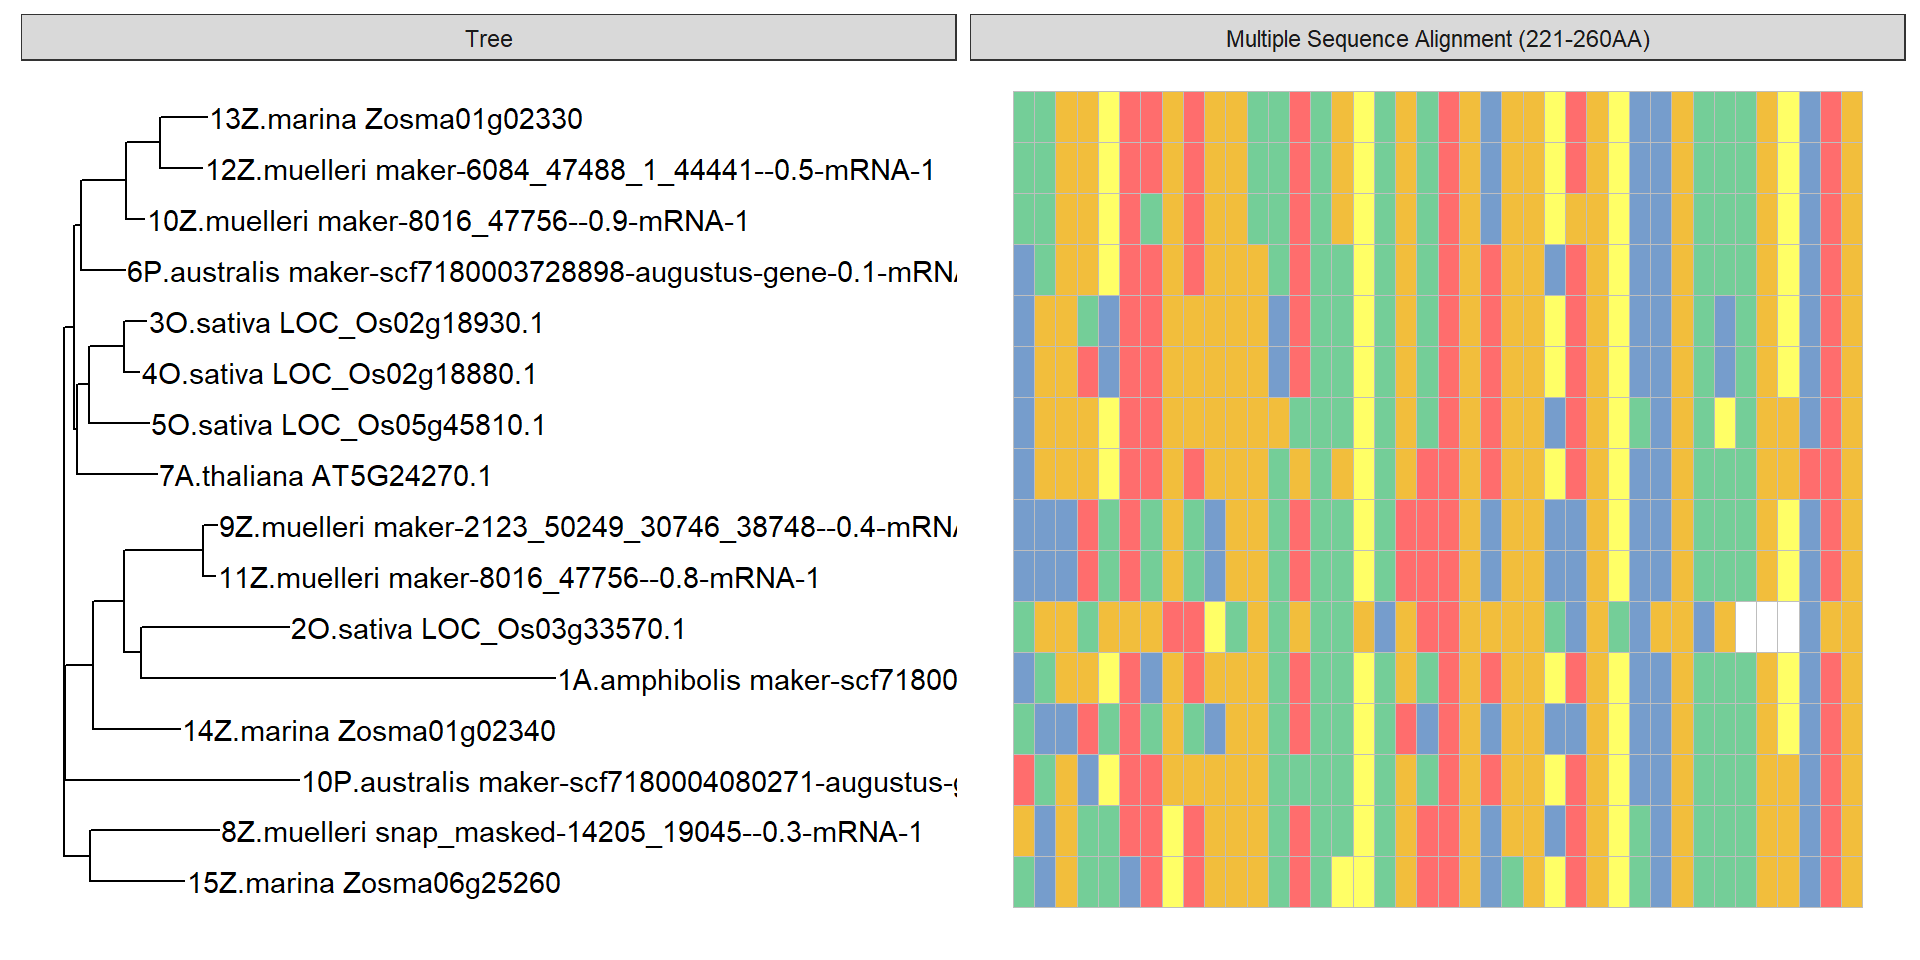
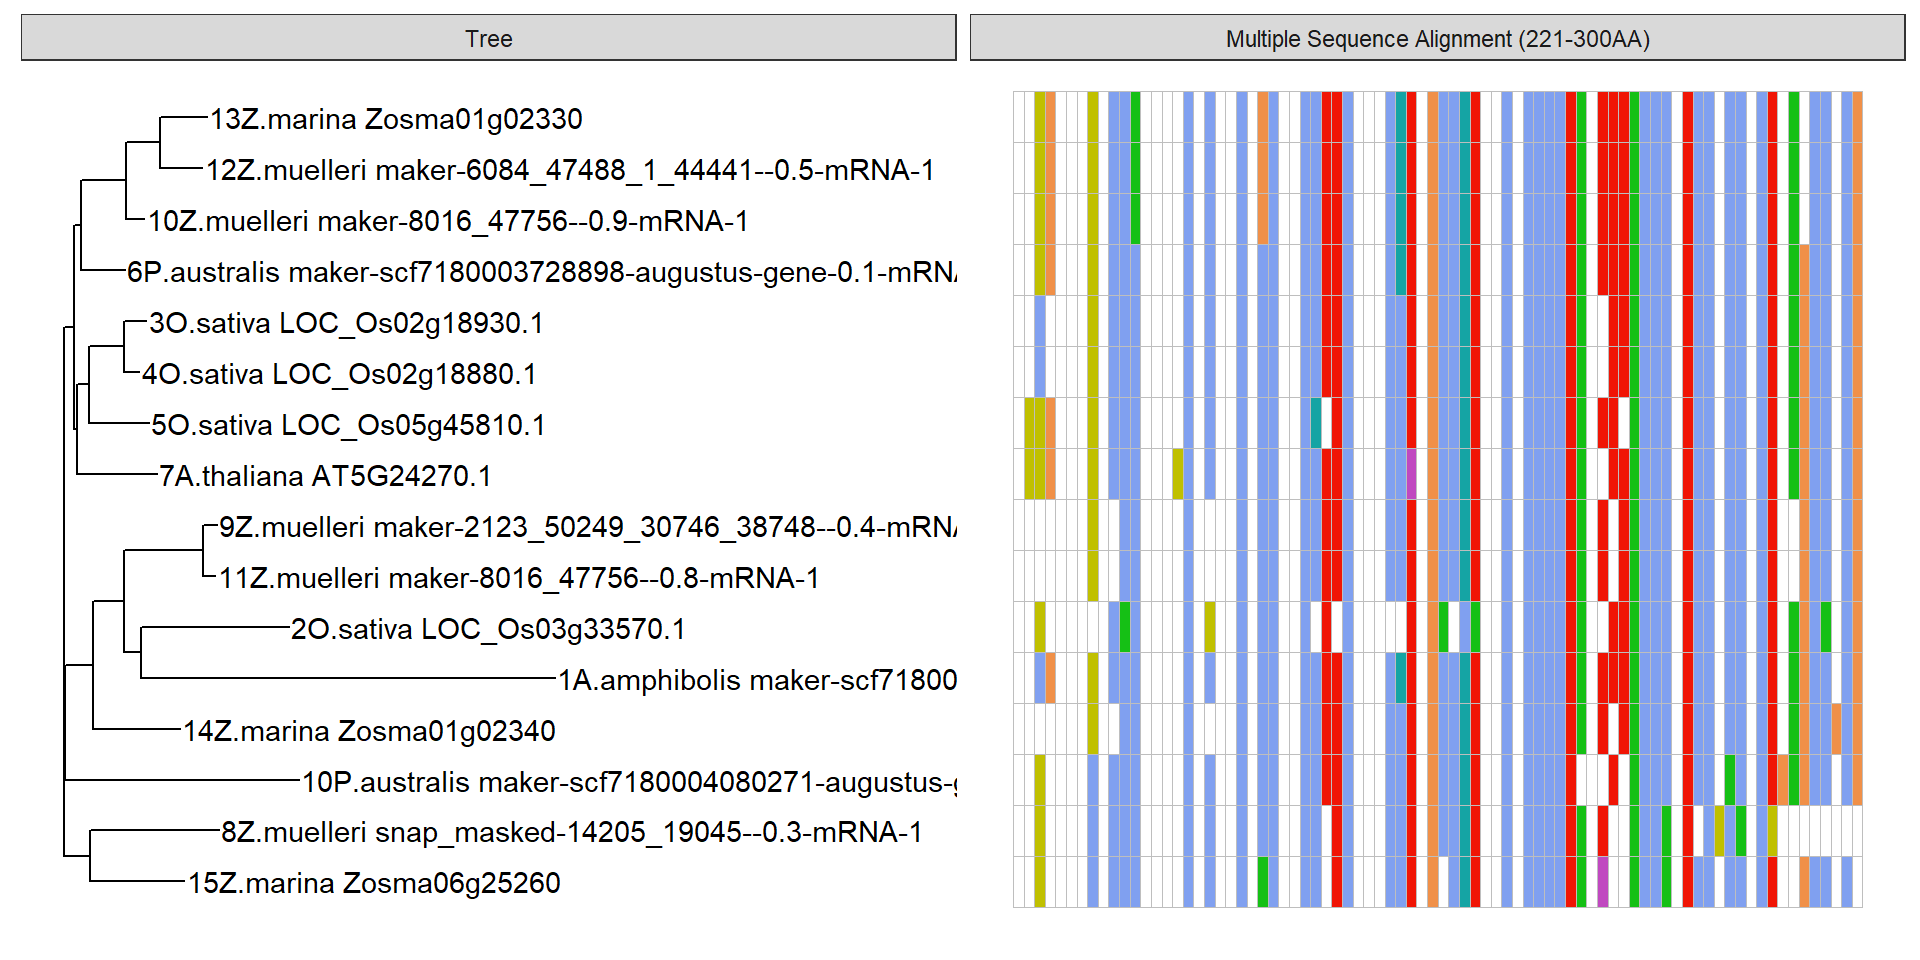
Build site.

diff --git a/docs/MSA.html b/docs/MSA.html
@@ -385,7 +385,7 @@ div.tocify {
 <div class="tab-content">
 <div id="summary" class="tab-pane fade in active">
 <p>
-<strong>Last updated:</strong> 2022-03-16
+<strong>Last updated:</strong> 2022-03-23
 </p>
 <p>
 <strong>Checks:</strong> <span class="glyphicon glyphicon-ok text-success" aria-hidden="true"></span> 7 <span class="glyphicon glyphicon-exclamation-sign text-danger" aria-hidden="true"></span> 0
@@ -476,16 +476,16 @@ This reproducible <a href="http://rmarkdown.rstudio.com">R Markdown</a> analysis
 <div class="panel panel-default">
 <div class="panel-heading">
 <p class="panel-title">
-<a data-toggle="collapse" data-parent="#workflowr-checks" href="#strongRepositoryversionstrongahrefhttpsgithubcomphilippbayerAmphibolisPosidoniaComparisontreea02475f1f812ed36772cdc0e32fc5cb908e9d288targetblanka02475fa"> <span class="glyphicon glyphicon-ok text-success" aria-hidden="true"></span> <strong>Repository version:</strong> <a href="https://github.com/philippbayer/Amphibolis_Posidonia_Comparison/tree/a02475f1f812ed36772cdc0e32fc5cb908e9d288" target="_blank">a02475f</a> </a>
+<a data-toggle="collapse" data-parent="#workflowr-checks" href="#strongRepositoryversionstrongahrefhttpsgithubcomphilippbayerAmphibolisPosidoniaComparisontree9093bee0576708746a5d589fb4a211a5c2e422c3targetblank9093beea"> <span class="glyphicon glyphicon-ok text-success" aria-hidden="true"></span> <strong>Repository version:</strong> <a href="https://github.com/philippbayer/Amphibolis_Posidonia_Comparison/tree/9093bee0576708746a5d589fb4a211a5c2e422c3" target="_blank">9093bee</a> </a>
 </p>
 </div>
[2 lines of base64/hex data omitted]
 <div class="panel-body">
 <p>
 Great! You are using Git for version control. Tracking code development and connecting the code version to the results is critical for reproducibility.
 </p>
 <p>
-The results in this page were generated with repository version <a href="https://github.com/philippbayer/Amphibolis_Posidonia_Comparison/tree/a02475f1f812ed36772cdc0e32fc5cb908e9d288" target="_blank">a02475f</a>. See the <em>Past versions</em> tab to see a history of the changes made to the R Markdown and HTML files.
+The results in this page were generated with repository version <a href="https://github.com/philippbayer/Amphibolis_Posidonia_Comparison/tree/9093bee0576708746a5d589fb4a211a5c2e422c3" target="_blank">9093bee</a>. See the <em>Past versions</em> tab to see a history of the changes made to the R Markdown and HTML files.
 </p>
 <p>
 Note that you need to be careful to ensure that all relevant files for the analysis have been committed to Git prior to generating the results (you can use <code>wflow_publish</code> or <code>wflow_git_commit</code>). workflowr only checks the R Markdown file, but you know if there are other scripts or data files that it depends on. Below is the status of the Git repository when the results were generated:
@@ -495,19 +495,24 @@ Ignored files:
     Ignored:    .Rhistory
     Ignored:    .Rproj.user/
     Ignored:    analysis/OTT.nb.html
+    Ignored:    analysis/figure/
     Ignored:    analysis/plotRgenes.nb.html
 
 Untracked files:
-    Untracked:  analysis/aln.fa
-    Untracked:  data/EIN3_OG0000629/
-    Untracked:  data/SOS3_OG0000189/
-    Untracked:  output/quick_fit.pdb/
+    Untracked:  data/EIN3_OG0000629/MSA.png
+    Untracked:  data/EIN3_OG0000629/OG0000629.RiceAraSeagrasses.NamesFixed.fa
+    Untracked:  data/EIN3_OG0000629/OG0000629.RiceAraSeagrasses.aln.NamesFixed.fa
+    Untracked:  data/EIN3_OG0000629/OG0000629.RiceAraSeagrasses.aln.fa
+    Untracked:  data/EIN3_OG0000629/OG0000629.RiceAraSeagrasses.fa_pfam.tsv
+    Untracked:  data/EIN3_OG0000629/alignment.svg
+    Untracked:  data/SOS3_OG0000189/MSA.png
+    Untracked:  data/SOS3_OG0000189/OG0000189.RiceAraSeagrasses.FixedAmphi.fa_pfam.tsv
+    Untracked:  data/SOS3_OG0000189/OG0000189.RiceAraSeagrasses.aln.NamesFixed.fasta
+    Untracked:  data/SOS3_OG0000189/OG0000189.RiceAraSeagrasses.fa_pfam.tsv
 
 Unstaged changes:
     Modified:   analysis/ThreeDStructure.Rmd
-    Deleted:    data/OG0000189.RiceAraSeagrasses.aln.fasta
-    Deleted:    data/OG0000189.RiceAraSeagrasses.aln.fasta.raxml.reduced.phy
-    Deleted:    data/OG0000189.RiceAraSeagrasses.fa
+    Modified:   output/SOS3_phylogeny.png
 
 </code></pre>
 <p>
@@ -546,6 +551,40 @@ Message
 </tr>
 </thead>
 <tbody>
+<tr>
+<td>
+Rmd
+</td>
+<td>
+<a href="https://github.com/philippbayer/Amphibolis_Posidonia_Comparison/blob/9093bee0576708746a5d589fb4a211a5c2e422c3/analysis/MSA.Rmd" target="_blank">9093bee</a>
+</td>
+<td>
+Philipp Bayer
+</td>
+<td>
+2022-03-23
+</td>
+<td>
+workflowr::wflow_publish(files = “analysis/MSA.Rmd”)
+</td>
+</tr>
+<tr>
+<td>
+html
+</td>
+<td>
+<a href="https://rawcdn.githack.com/philippbayer/Amphibolis_Posidonia_Comparison/c1761040ed409dc624390b1e02033d8960b3c5f1/docs/MSA.html" target="_blank">c176104</a>
+</td>
+<td>
+Philipp Bayer
+</td>
+<td>
+2022-03-16
+</td>
+<td>
+Build site.
+</td>
+</tr>
 <tr>
 <td>
 Rmd
@@ -757,9 +796,9 @@ tree &lt;- bionj(d)
 p &lt;- ggtree(tree) + geom_tiplab()
 ggtree(tree) + geom_tiplab()</code></pre>
 <p><img src="figure/MSA.Rmd/unnamed-chunk-2-1.png" width="672" style="display: block; margin: auto;" /></p>
-<pre class="r"><code>data &lt;- tidy_msa(&#39;data/SOS3_OG0000189/OG0000189.RiceAraSeagrasses.aln.fasta&#39;, 221, 260)
-p + geom_facet(geom = geom_msa, data = data,  panel = &#39;Multiple Sequence Alignment (221-260AA)&#39;,
-               font = NULL, color = &quot;Chemistry_AA&quot;) +
+<pre class="r"><code>data &lt;- tidy_msa(&#39;data/SOS3_OG0000189/OG0000189.RiceAraSeagrasses.aln.fasta&#39;, 221, 300)
+p + geom_facet(geom = geom_msa, data = data,  panel = &#39;Multiple Sequence Alignment (221-300AA)&#39;,
+               font = NULL, color = &quot;Clustal&quot;, by_conversation= TRUE) +
     xlim_tree(1)</code></pre>
 <pre><code>Warning: Unknown or uninitialised column: `name`.</code></pre>
 <p><img src="figure/MSA.Rmd/unnamed-chunk-3-1.png" width="960" style="display: block; margin: auto;" /></p>
@@ -777,7 +816,7 @@ p2</code></pre>
 <pre class="r"><code>data2 &lt;- data %&gt;% mutate(name = str_sub(name, 1, 10), 
                          name = str_trim(name))
 p2 + geom_facet(geom = geom_msa, data = data2,  panel = &#39;Multiple Sequence Alignment (221-260AA)&#39;,
-               font = NULL, color = &quot;Chemistry_AA&quot;) +
+               font = NULL, color = &quot;Clustal&quot;) +
     xlim_tree(2)</code></pre>
 <pre><code>Warning: Unknown or uninitialised column: `name`.</code></pre>
 <p><img src="figure/MSA.Rmd/unnamed-chunk-5-1.png" width="960" style="display: block; margin: auto;" /></p>
@@ -898,7 +937,13 @@ p3 + geom_facet(geom = geom_msa, data = data3,  panel = &#39;Multiple Sequence A
                font = NULL, color = &quot;Chemistry_AA&quot;) +
     xlim_tree(3)</code></pre>
 <pre><code>Warning: Unknown or uninitialised column: `name`.</code></pre>
-<p><img src="figure/MSA.Rmd/unnamed-chunk-12-1.png" width="960" style="display: block; margin: auto;" /> ## Phylogeny for the EIN3 cluster</p>
+<p><img src="figure/MSA.Rmd/unnamed-chunk-12-1.png" width="960" style="display: block; margin: auto;" /></p>
+<pre class="r"><code>msaplot(p3, &#39;data/SOS3_OG0000189/OG0000189.RiceAraSeagrasses.aln.NamesFixed.fasta&#39;,
+        offset = 0.5) + theme(legend.position=&#39;none&#39;)</code></pre>
+<p><img src="figure/MSA.Rmd/unnamed-chunk-13-1.png" width="960" style="display: block; margin: auto;" /></p>
+</div>
+<div id="phylogeny-for-the-ein3-cluster" class="section level2">
+<h2>Phylogeny for the EIN3 cluster</h2>
 <p>First, to align the sequences again:</p>
 <pre><code>modeltest-ng reports JTT+I+G4+F
 
@@ -945,7 +990,69 @@ tree3 &lt;- rename_taxa(tree3, rename_df, old, new)
 p3 &lt;-  ggtree(tree3) + geom_tiplab(fontface=&#39;italic&#39;)
 p3 &lt;- p3 + geom_nodelab(aes(subset=label&gt;80))
 p3 + xlim_tree(2.1)</code></pre>
-<p><img src="figure/MSA.Rmd/unnamed-chunk-13-1.png" width="672" style="display: block; margin: auto;" /></p>
+<p><img src="figure/MSA.Rmd/unnamed-chunk-14-1.png" width="672" style="display: block; margin: auto;" /></p>
+<pre class="r"><code>msaplot(p3, &#39;./data/EIN3_OG0000629/OG0000629.RiceAraSeagrasses.aln.NamesFixed.fa&#39;,
+        offset = 0.5)  + theme(legend.position=&#39;none&#39;)</code></pre>
+<p><img src="figure/MSA.Rmd/unnamed-chunk-15-1.png" width="672" style="display: block; margin: auto;" /></p>
+<pre class="r"><code>domains &lt;- tibble::tribble(
+                                                                    ~Gene,     ~Pfam, ~Start, ~End,   ~Evalue,
+                                                          &quot;Zosma01g42670&quot;, &quot;PF04873&quot;,     3L, 246L,  2.9e-117,
+                                                            &quot;AT2G27050.1&quot;, &quot;PF04873&quot;,    49L, 298L,  2.6e-130,
+                                                       &quot;LOC_Os03g20780.1&quot;, &quot;PF04873&quot;,    78L, 332L,  1.4e-132,
+             &quot;augustus_masked-scf7180003860583-processed-gene-0.3-mRNA-1&quot;, &quot;PF04873&quot;,    76L, 325L,  1.9e-131,
+                                          &quot;maker-1834_92013--0.52-mRNA-1&quot;, &quot;PF04873&quot;,   136L, 408L,    2e-123,
+                                                       &quot;LOC_Os07g48630.1&quot;, &quot;PF04873&quot;,    81L, 338L,  3.7e-129,
+                                                            &quot;AT3G20770.1&quot;, &quot;PF04873&quot;,    49L, 296L,  4.8e-129,
+                                 &quot;augustus_masked-5412_21708--0.0-mRNA-1&quot;, &quot;PF04873&quot;,    16L, 285L,  2.2e-123,
+                                          &quot;maker-3356_51779--0.18-mRNA-1&quot;, &quot;PF04873&quot;,    85L, 125L,     2e-12,
+                                                       &quot;LOC_Os03g20790.1&quot;, &quot;PF04873&quot;,    78L, 332L,  1.4e-132,
+                                                          &quot;Zosma02g24210&quot;, &quot;PF04873&quot;,     1L, 206L,  1.9e-113
+             )
+domains$length &lt;- domains$End - domains$Start
+replace_vector &lt;- rename_df$new
+names(replace_vector) &lt;- rename_df$old
+domains &lt;- domains %&gt;% mutate(Gene = str_replace_all(Gene, replace_vector))
+domains</code></pre>
+<pre><code># A tibble: 11 x 6
+   Gene      Pfam    Start   End   Evalue length
+   &lt;chr&gt;     &lt;chr&gt;   &lt;int&gt; &lt;int&gt;    &lt;dbl&gt;  &lt;int&gt;
+ 1 ZmaEIN3.2 PF04873     3   246 2.9e-117    243
+ 2 AtEIL1    PF04873    49   298 2.6e-130    249
+ 3 OsEIL1    PF04873    78   332 1.4e-132    254
+ 4 PaEIN3    PF04873    76   325 1.9e-131    249
+ 5 ZmuEIN3.1 PF04873   136   408 2  e-123    272
+ 6 OsEIL2    PF04873    81   338 3.7e-129    257
+ 7 AtEIN3    PF04873    49   296 4.8e-129    247
+ 8 ZmuEIN3.2 PF04873    16   285 2.2e-123    269
+ 9 ZmuEIN3.3 PF04873    85   125 2  e- 12     40
+10 OsEIL1.2  PF04873    78   332 1.4e-132    254
+11 ZmaEIN3.1 PF04873     1   206 1.9e-113    205</code></pre>
+<pre class="r"><code>g &lt;- domains %&gt;% left_join(rename_df, by=c(&#39;Gene&#39;=&#39;new&#39;)) %&gt;%  ggplot(aes(y = Gene, yend=Gene, x=Start,  xend=End,  color=Evalue)) + geom_segment(size=2) + theme_minimal() + xlab(expression(paste(&quot;Position of &quot;, italic(&quot;EIN3&quot;))))
+g</code></pre>
+<p><img src="figure/MSA.Rmd/unnamed-chunk-17-1.png" width="672" style="display: block; margin: auto;" /></p>
+<pre class="r"><code>library(aplot)</code></pre>
+<pre><code>Warning: package &#39;aplot&#39; was built under R version 4.1.2</code></pre>
+<pre class="r"><code>g &lt;- g + theme(axis.title.y=element_blank(),
+               axis.text.y = element_blank(),
+                legend.position=&#39;none&#39;)
+
+g %&gt;% insert_left(p3, width=2.5)</code></pre>
+<p><img src="figure/MSA.Rmd/unnamed-chunk-18-1.png" width="960" style="display: block; margin: auto;" /></p>
+<pre class="r"><code>library(patchwork)</code></pre>
+<pre><code>Warning: package &#39;patchwork&#39; was built under R version 4.1.1</code></pre>
+<pre class="r"><code># let&#39;s make a patchwork
+# PROBLEM: patchwork does not automatically sort, so we&#39;ll have to sort the plot `g` manually 
+
+plot_order &lt;- p3[[&#39;data&#39;]] %&gt;% filter(isTip == TRUE) %&gt;% select(label, y) %&gt;% arrange(desc(y))
+g &lt;- domains %&gt;% left_join(rename_df, by=c(&#39;Gene&#39;=&#39;new&#39;)) %&gt;%  ggplot(aes(y = factor(Gene, levels = plot_order$label), yend=Gene, x=Start,  xend=End,  color=Evalue)) + geom_segment(size=2) + theme_minimal() + xlab(expression(paste(&quot;Position of &quot;, italic(&quot;EIN3&quot;))))+ theme(axis.title.y=element_blank(),
+               axis.text.y = element_blank(),
+                legend.position=&#39;none&#39;)
+g</code></pre>
+<p><img src="figure/MSA.Rmd/unnamed-chunk-19-1.png" width="960" style="display: block; margin: auto;" /></p>
+<pre class="r"><code>msaplot(p3, &#39;./data/EIN3_OG0000629/OG0000629.RiceAraSeagrasses.aln.NamesFixed.fa&#39;,
+        offset = 0.5)  + theme(legend.position=&#39;none&#39;) + g  + 
+  plot_layout(widths = c(3.5, 1)) </code></pre>
+<p><img src="figure/MSA.Rmd/unnamed-chunk-19-2.png" width="960" style="display: block; margin: auto;" /></p>
 <br>
 <p>
 <button type="button" class="btn btn-default btn-workflowr btn-workflowr-sessioninfo" data-toggle="collapse" data-target="#workflowr-sessioninfo" style="display: block;">
@@ -970,47 +1077,47 @@ attached base packages:
 [8] methods   base     
 
 other attached packages:
- [1] treeio_1.16.2       ggtree_3.0.4        ape_5.5            
- [4] Biostrings_2.60.2   GenomeInfoDb_1.28.4 XVector_0.32.0     
- [7] IRanges_2.26.0      S4Vectors_0.30.2    BiocGenerics_0.38.0
-[10] ggmsa_1.1.5         forcats_0.5.1       stringr_1.4.0      
-[13] dplyr_1.0.7         purrr_0.3.4         readr_2.1.2        
-[16] tidyr_1.1.4         tibble_3.1.5        ggplot2_3.3.5      
-[19] tidyverse_1.3.1     workflowr_1.6.2    
+ [1] patchwork_1.1.1     aplot_0.1.2         treeio_1.16.2      
+ [4] ggtree_3.0.4        ape_5.5             Biostrings_2.60.2  
+ [7] GenomeInfoDb_1.28.4 XVector_0.32.0      IRanges_2.26.0     
+[10] S4Vectors_0.30.2    BiocGenerics_0.38.0 ggmsa_1.1.5        
+[13] forcats_0.5.1       stringr_1.4.0       dplyr_1.0.7        
+[16] purrr_0.3.4         readr_2.1.2         tidyr_1.1.4        
+[19] tibble_3.1.5        ggplot2_3.3.5       tidyverse_1.3.1    
+[22] workflowr_1.6.2    
 
 loaded via a namespace (and not attached):
  [1] colorspace_2.0-2       ellipsis_0.3.2         rprojroot_2.0.2       
- [4] fs_1.5.0               aplot_0.1.2            rstudioapi_0.13       
- [7] farver_2.1.0           fansi_0.5.0            lubridate_1.8.0       
-[10] xml2_1.3.2             extrafont_0.17         knitr_1.36            
-[13] polyclip_1.10-0        jsonlite_1.7.2         broom_0.7.9           
-[16] Rttf2pt1_1.3.8         dbplyr_2.1.1           ggforce_0.3.3         
-[19] compiler_4.1.0         httr_1.4.2             backports_1.2.1       
-[22] assertthat_0.2.1       fastmap_1.1.0          lazyeval_0.2.2        
-[25] cli_3.2.0              later_1.3.0            tweenr_1.0.2          
-[28] htmltools_0.5.2        tools_4.1.0            gtable_0.3.0          
-[31] glue_1.6.2             GenomeInfoDbData_1.2.6 maps_3.4.0            
-[34] Rcpp_1.0.7             cellranger_1.1.0       jquerylib_0.1.4       
-[37] vctrs_0.3.8            ggalt_0.4.0            nlme_3.1-152          
-[40] extrafontdb_1.0        xfun_0.27              rvest_1.0.2           
-[43] lifecycle_1.0.1        zlibbioc_1.38.0        MASS_7.3-54           
-[46] scales_1.1.1           hms_1.1.1              promises_1.2.0.1      
-[49] proj4_1.0-11           RColorBrewer_1.1-2     yaml_2.2.1            
-[52] R4RNA_1.22.0           ggfun_0.0.5            seqmagick_0.1.5       
-[55] yulab.utils_0.0.4      sass_0.4.0             stringi_1.7.5         
-[58] highr_0.9              tidytree_0.3.7         rlang_0.4.12          
-[61] pkgconfig_2.0.3        bitops_1.0-7           evaluate_0.14         
-[64] lattice_0.20-44        labeling_0.4.2         patchwork_1.1.1       
-[67] cowplot_1.1.1          tidyselect_1.1.1       magrittr_2.0.1        
-[70] R6_2.5.1               generics_0.1.1         DBI_1.1.1             
-[73] pillar_1.6.4           haven_2.4.3            whisker_0.4           
-[76] withr_2.5.0            RCurl_1.98-1.5         ash_1.0-15            
-[79] modelr_0.1.8           crayon_1.4.1           KernSmooth_2.23-20    
-[82] utf8_1.2.2             tzdb_0.1.2             rmarkdown_2.11        
-[85] grid_4.1.0             readxl_1.3.1           git2r_0.28.0          
-[88] reprex_2.0.1           digest_0.6.28          httpuv_1.6.3          
-[91] gridGraphics_0.5-1     munsell_0.5.0          ggplotify_0.1.0       
-[94] bslib_0.3.1           </code></pre>
+ [4] fs_1.5.0               rstudioapi_0.13        farver_2.1.0          
+ [7] fansi_0.5.0            lubridate_1.8.0        xml2_1.3.2            
+[10] extrafont_0.17         knitr_1.36             polyclip_1.10-0       
+[13] jsonlite_1.7.2         broom_0.7.9            Rttf2pt1_1.3.8        
+[16] dbplyr_2.1.1           ggforce_0.3.3          compiler_4.1.0        
+[19] httr_1.4.2             backports_1.2.1        assertthat_0.2.1      
+[22] fastmap_1.1.0          lazyeval_0.2.2         cli_3.2.0             
+[25] later_1.3.0            tweenr_1.0.2           htmltools_0.5.2       
+[28] tools_4.1.0            gtable_0.3.0           glue_1.6.2            
+[31] GenomeInfoDbData_1.2.6 maps_3.4.0             Rcpp_1.0.7            
+[34] cellranger_1.1.0       jquerylib_0.1.4        vctrs_0.3.8           
+[37] ggalt_0.4.0            nlme_3.1-152           extrafontdb_1.0       
+[40] xfun_0.27              rvest_1.0.2            lifecycle_1.0.1       
+[43] zlibbioc_1.38.0        MASS_7.3-54            scales_1.1.1          
+[46] hms_1.1.1              promises_1.2.0.1       proj4_1.0-11          
+[49] RColorBrewer_1.1-2     yaml_2.2.1             R4RNA_1.22.0          
+[52] ggfun_0.0.5            seqmagick_0.1.5        yulab.utils_0.0.4     
+[55] sass_0.4.0             stringi_1.7.5          highr_0.9             
+[58] tidytree_0.3.7         rlang_0.4.12           pkgconfig_2.0.3       
+[61] bitops_1.0-7           evaluate_0.14          lattice_0.20-44       
+[64] labeling_0.4.2         cowplot_1.1.1          tidyselect_1.1.1      
+[67] magrittr_2.0.1         R6_2.5.1               generics_0.1.1        
+[70] DBI_1.1.1              pillar_1.6.4           haven_2.4.3           
+[73] whisker_0.4            withr_2.5.0            RCurl_1.98-1.5        
+[76] ash_1.0-15             modelr_0.1.8           crayon_1.4.1          
+[79] KernSmooth_2.23-20     utf8_1.2.2             tzdb_0.1.2            
+[82] rmarkdown_2.11         grid_4.1.0             readxl_1.3.1          
+[85] git2r_0.28.0           reprex_2.0.1           digest_0.6.28         
+[88] httpuv_1.6.3           gridGraphics_0.5-1     munsell_0.5.0         
+[91] ggplotify_0.1.0        bslib_0.3.1           </code></pre>
 </div>
 </div>
 
